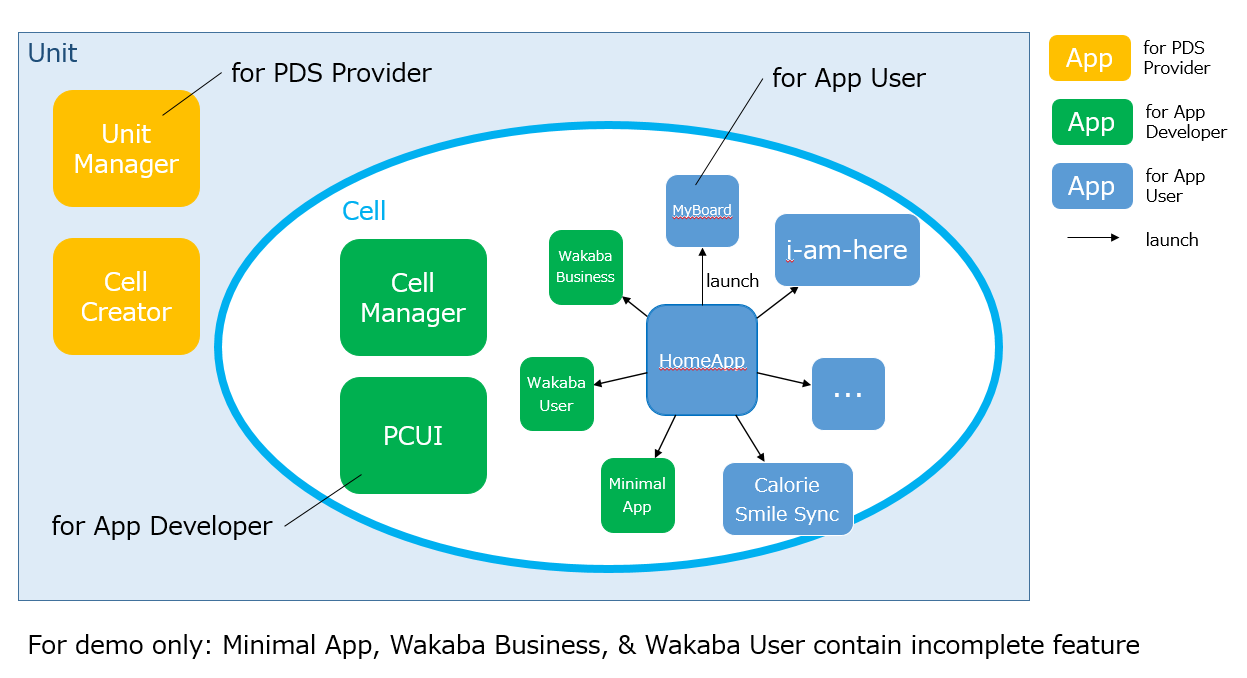
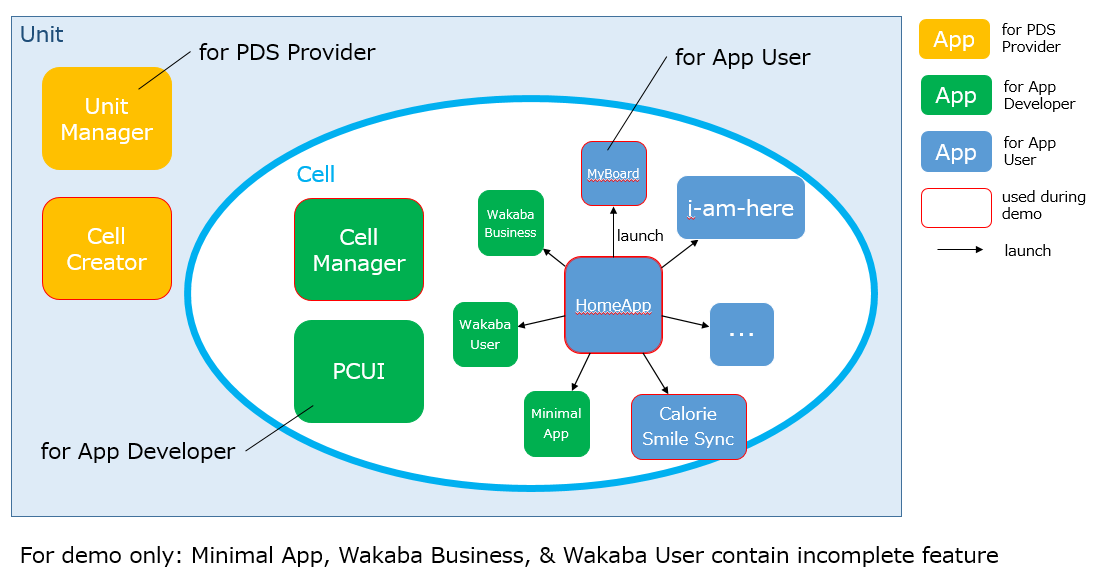
Update scenarios

diff --git a/README_BasicScenario1.md b/README_BasicScenario1.md
@@ -1,0 +1,48 @@
+# Hands-on Demo 2017  
+Instructions of hands-on demo for audience.  
+
+# Basic Scenario #1  
+You get to create your own app user cell and ask Peter Pan's permission to view his photo diaries.  
+
+## Prerequisites  
+Create a Person cell and login to the HomeApp.  
+1. Click the following image to access the Cell Creator Wizard (demo version) and then ask the presenter to switch to the "REAL" version for you.   
+[![Cell Creator](doc/cell_creator_wizard.png)](https://demo.personium.io/app-uc-cell-creator-wizard/__/index.html)  
+1. Enter a name for the cell. Click NEXT.  
+1. Fill in the admin account fields. Click NEXT.  
+1. Click NEXT (we will skip the profile editing).  
+1. Click CREATE. And wait for the dialog with all the information.  
+(this is a sample image)  
+![](doc/home_app_access.png)  
+1. Now, access the HomeApp of the newly created cell either from Chrome (using the copy and paste icon) or by scanning the QR Code with a mobile device.  
+1. Login.  
+
+## Procedures  
+1. Login.  
+1. From Community, add Peter Pan as an external cell.  
+	1. Click Community.  
+	![](doc/homeapp_community.png)  
+	1. Click Create External Cell.  
+	![](doc/homeapp_community_CreateExternalCell.png)  
+	1. Enter Peter Pan's cell URL.  
+	![](doc/homeapp_community_CreateExternalCell_URL.png)  
+    	1. If you are accessing the HomeApp form an Android phone, click QRScanner to scan the QR Code below directly.  
+    	![Peter Pan's cell URL QR Code](doc/peter_pan_cell_url_qrcode.png)  
+    	1. Otherwise, you have to enter the cell URL manually.  
+
+    			https://demo.personium.io/demo-english-user-003/
+
+    1. Click Add.  
+    1. Confirm that Peter Pan is added.  
+    ![](doc/homeapp_community_list.png)  
+    1. Go back to the main screen.  
+1. From App Market, install Calorie Smile.  
+The main screen will be displayed automatically.  
+1. Launch Calorie Smile and display the photo diaries.  
+1. Send a view permission to Peter Pan.  
+	1. Click the hamburger menu.  
+	1. Click Send View Permission.  
+	1. Select Peter Pan and click Send.  
+	1. Close the dialog.  
+	1. Close the side menu.  
+1. Wait for Peter Pan's approval.  

diff --git a/README_BasicScenario2.md b/README_BasicScenario2.md
@@ -1,7 +1,7 @@
 # Hands-on Demo 2017  
 Instructions of hands-on demo for audience.  
 
-# Basic Scenario  
+# Basic Scenario #2  
 You get to create your own app user cell and ask Peter Pan's permission to read his ~~secret~~ MyBoard message.  
 
 1. Create a Person cell (for app user).  
@@ -9,6 +9,8 @@ You get to create your own app user cell and ask Peter Pan's permission to read 
 1. Access the HomeApp of the newly created cell either from Chrome (using the copy and paste icon) or by scanning the QR Code with a mobile device.  
 The following is just a sample image.  
 ![](doc/home_app_access.png)  
+
+## Procedures  
 1. From Community Menu, add Peter Pan as an external cell.  
 ![](doc/homeapp_community.png)  
     1. If you have an Android phone you can scan the QR Code below directly.  
@@ -17,17 +19,5 @@ The following is just a sample image.
 1. Click "Read More" and select Peter Pan and click Send.  
 1. Wait for Peter Pan to approve ...  
 1. Click "Read another" and select Peter Pan and click Read.  
-(Peter Pan - Demostrator needs to approve read permission)
+(Peter Pan - Demonstrator needs to approve read permission)
 
-# Advance Scenario  
-You get to create a [minimal app](https://github.com/personium/template-app-cell) and launch it from HomeApp.  
-
-1. Create an app cell (for app).  
-[![Cell Creator](doc/cell_creator_wizard.png)](https://demo.personium.io/app-uc-cell-creator-wizard/__/index.html)  
-1. Access the app cell from the [Cell Manager](https://demo.personium.io/app-uc-unit-manager/__/unitmgr-light/login.html)  
-1. Download and modify files  
-1. Upload files  
-1. Access the HomeApp of the cell created in Basic Scenario.  
-1. Click App Market  
-1. Install the app  
-1. Launch it  

diff --git a/README.md b/README.md
@@ -9,8 +9,14 @@ We will be using the following apps during the hands-on demo.
 
 1. [Cell Creator](https://github.com/personium/app-uc-cell-creator-wizard)  
 1. [HomeApp](https://github.com/personium/app-cc-home)  
+1. [Calorie Smile Sync](https://github.com/personium/app-sample-calorie-smile)  
+1. [MyBoard](https://github.com/personium/app-myboard)  
 1. [Cell Manager](https://github.com/personium/app-uc-unit-manager)  
 
 # Demo  
-1. Audience can follow the instructions from the [Basic & Advance Scenarios](README_audience.md)  
+1. Audience can perform the one of the following scenarios.  
+	1. [Basic Scenario #1]()  
+	1. [Basic Scenario #2]()  
+	1. [Basic Scenario #3]()  
+	1. [Advance Scenario](README_audience.md)  
 1. Presenter must interact with the audience with [friendly actions](README_presenter.md)  

diff --git a/README_AdvanceScenario.md b/README_AdvanceScenario.md
@@ -1,0 +1,15 @@
+# Hands-on Demo 2017  
+Instructions of hands-on demo for audience.  
+
+# Advance Scenario  
+You get to create a [minimal app](https://github.com/personium/template-app-cell) and launch it from HomeApp.  
+
+1. Create an app cell (for app).  
+[![Cell Creator](doc/cell_creator_wizard.png)](https://demo.personium.io/app-uc-cell-creator-wizard/__/index.html)  
+1. Access the app cell from the [Cell Manager](https://demo.personium.io/app-uc-unit-manager/__/unitmgr-light/login.html)  
+1. Download and modify files  
+1. Upload files  
+1. Access the HomeApp of the cell created in Basic Scenario.  
+1. Click App Market  
+1. Install the app  
+1. Launch it  

diff --git a/README_presenter.md b/README_presenter.md
@@ -5,9 +5,10 @@ Instructions of hands-on demo for presenter.
 Perform the following procedures to approve a Read Permission Request.  
 
 1. Access HomeApp of Peter Pan.  
+Scan the following QR Code or click the image.  
 [![Peter Pan HomeApp QR Code](doc/peter_pan_homeapp_qrcode.png)](https://demo.personium.io/demo-english-user-003/io_personium_demo_HomeApplication/src/login.html)  
 1. Login  
-1. Launch MyBoard  
+1. Launch Calorie Smile.  
 ![Peter Pan HomeApp Screen](doc/peter_pan_homeapp_screen.png)  
 1. Click Notifications to display the list of notications.  
 1. Click xxx:[MyBoard_Read Permission Request] to read the message and then click "Approve"  
